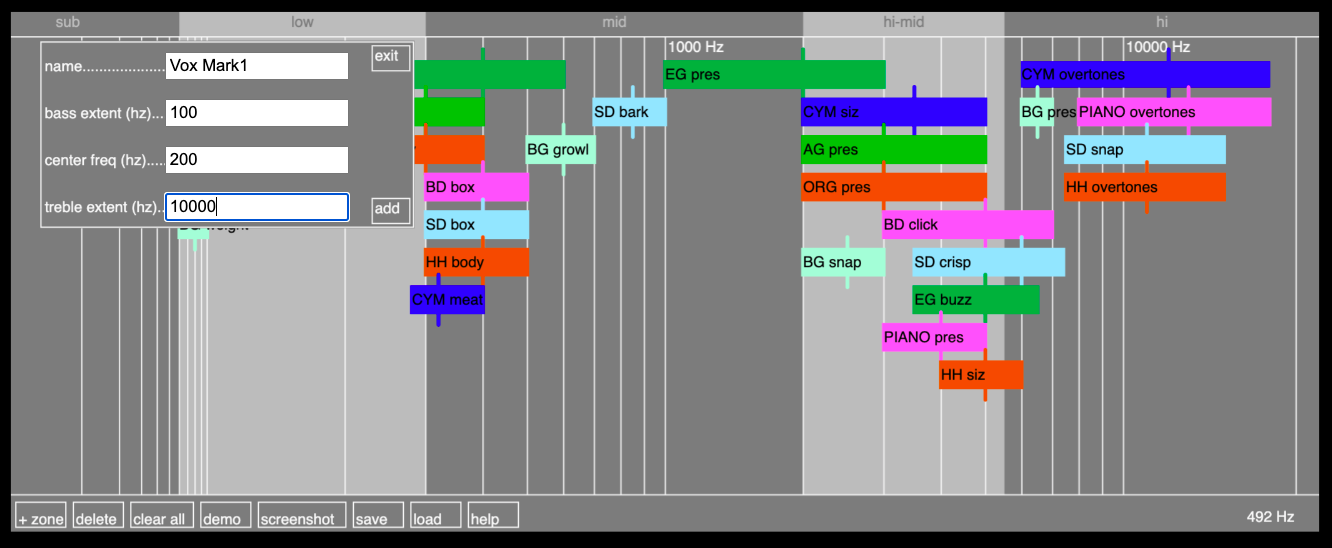
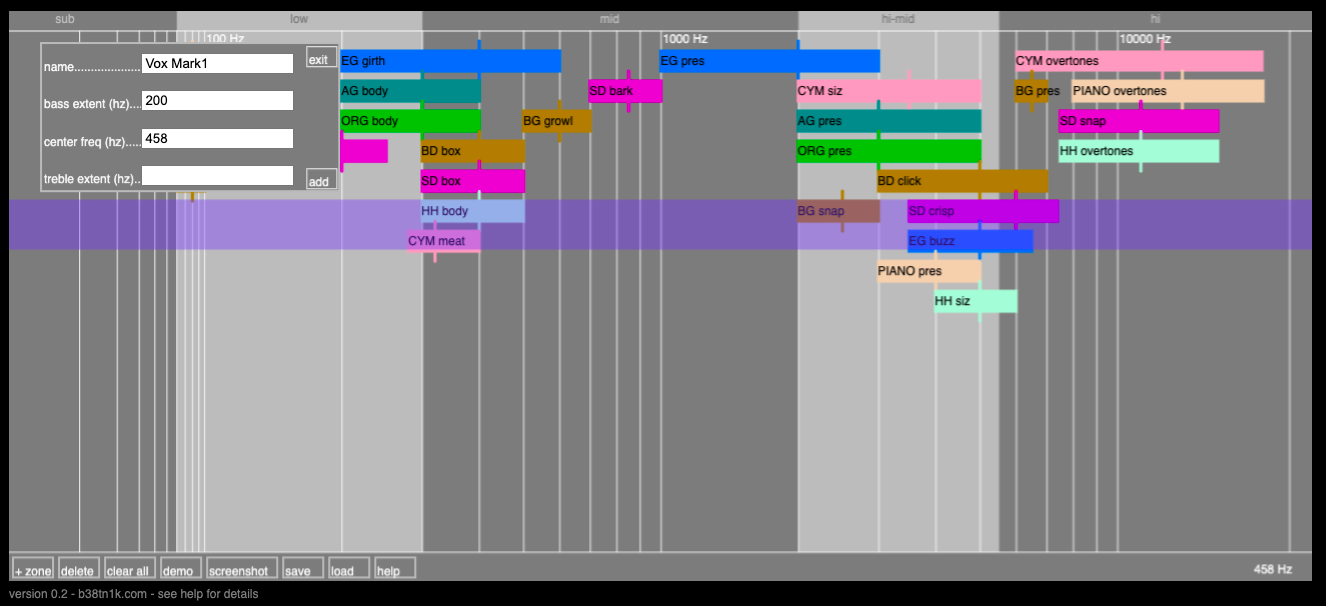
clicky click

diff --git a/mixtool/main.js b/mixtool/main.js
@@ -251,7 +251,7 @@ function draw() {
       }
     }
     gr.fill(barColor[clickOnGraphCounter % 4]);
-    gr.rect(0, 2*border + menuBg.height, gr.width, 50);
+    gr.rect(0, 2*border + menuBg.height-25, gr.width, 50);
     gr.fill(colors[2]);
     // gr.textAlign(RIGHT, BOTTOM);
     gr.text('name.........................................', int(border) + 4, int(ytoff));
@@ -453,16 +453,17 @@ function pageSetup() {
   menuBg = createGraphics(x, y);
   drawMenuBackground();
   scrollX = 0;
-  let c  = colors[10];
+  // color(c1.levels)
+  let c  = color(colors[10].levels);
   c.setAlpha(100);
   barColor.push(c);
-  c  = colors[15];
+  c  = color(colors[15].levels);
   c.setAlpha(100);
   barColor.push(c);
-  c  = colors[20];
+  c  = color(colors[20].levels);
   c.setAlpha(100);
   barColor.push(c);
-  c  = colors[40];
+  c  = color(colors[40].levels);
   c.setAlpha(100);
   barColor.push(c);
 

diff --git a/mixtool/help/index.html b/mixtool/help/index.html
@@ -115,7 +115,7 @@
 <p>Mix Tool is a frequency grapher that might help you find where various sounds are clashing in your mix.</p>
 <p>You can add and delete 'zones' of an instrument, mapped across the audible frequency range.</p>
 <p>Create a zone by pressing '+ zone' and entering a string to name the zone. You can group zones by using the first word in the string as a tag, e.g. 'BD thump', 'BD click'.</p>
-<p>Then enter 3 values in Hz:</p>
+<p>Then enter or click 3 frequency values in Hz:</p>
 <ul>
 <li>The <em>bass extent</em> is the lowest frequency of the sound that makes up it's character. You can find it by sweeping a high pass filter up on the sound. When it starts sounding bad, sweep back a touch and that is your number.</li>
 <li>The <em>center freq</em> is where the sound has most of it's character. The frequency where the sound is most like itself.</li>
